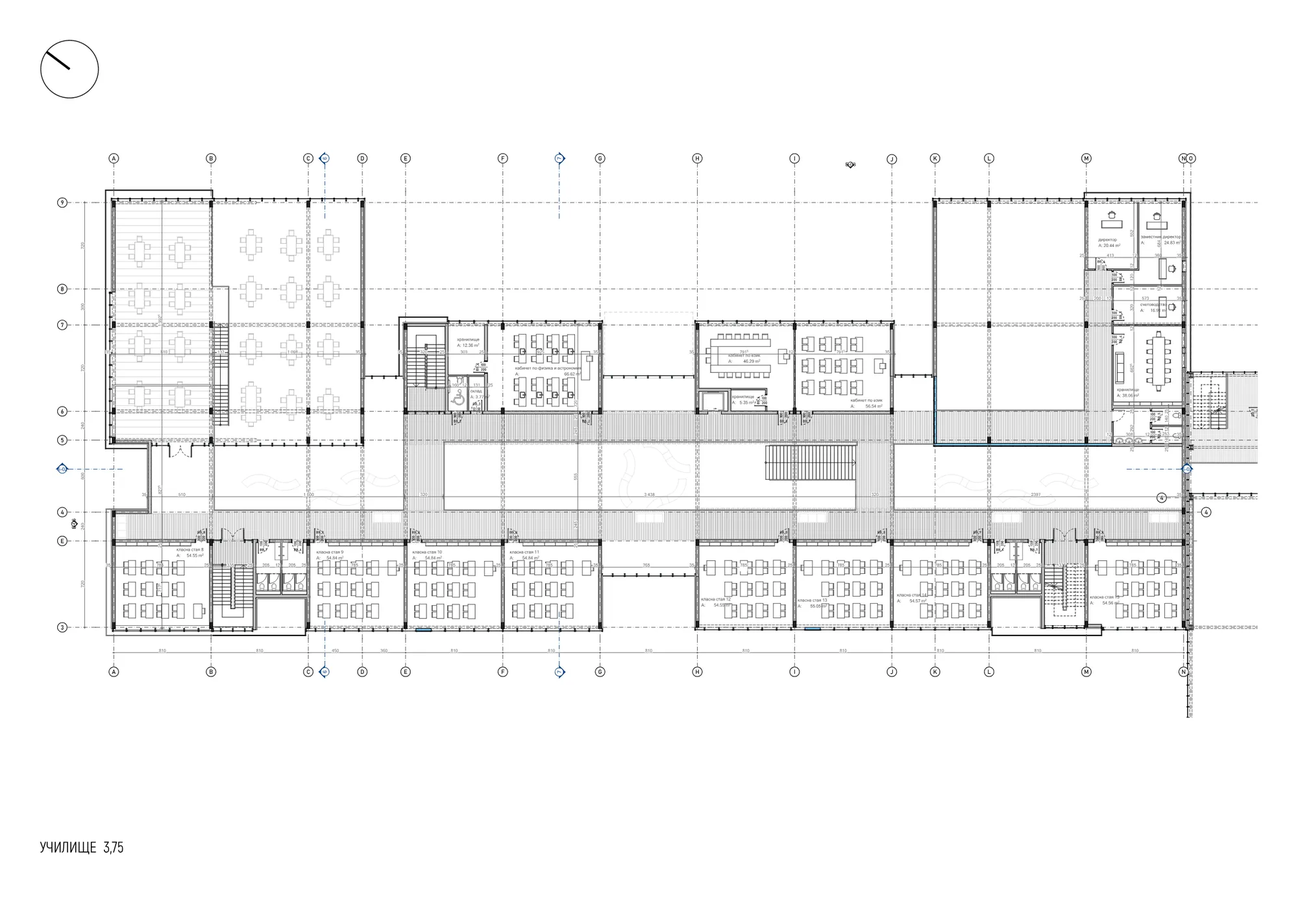
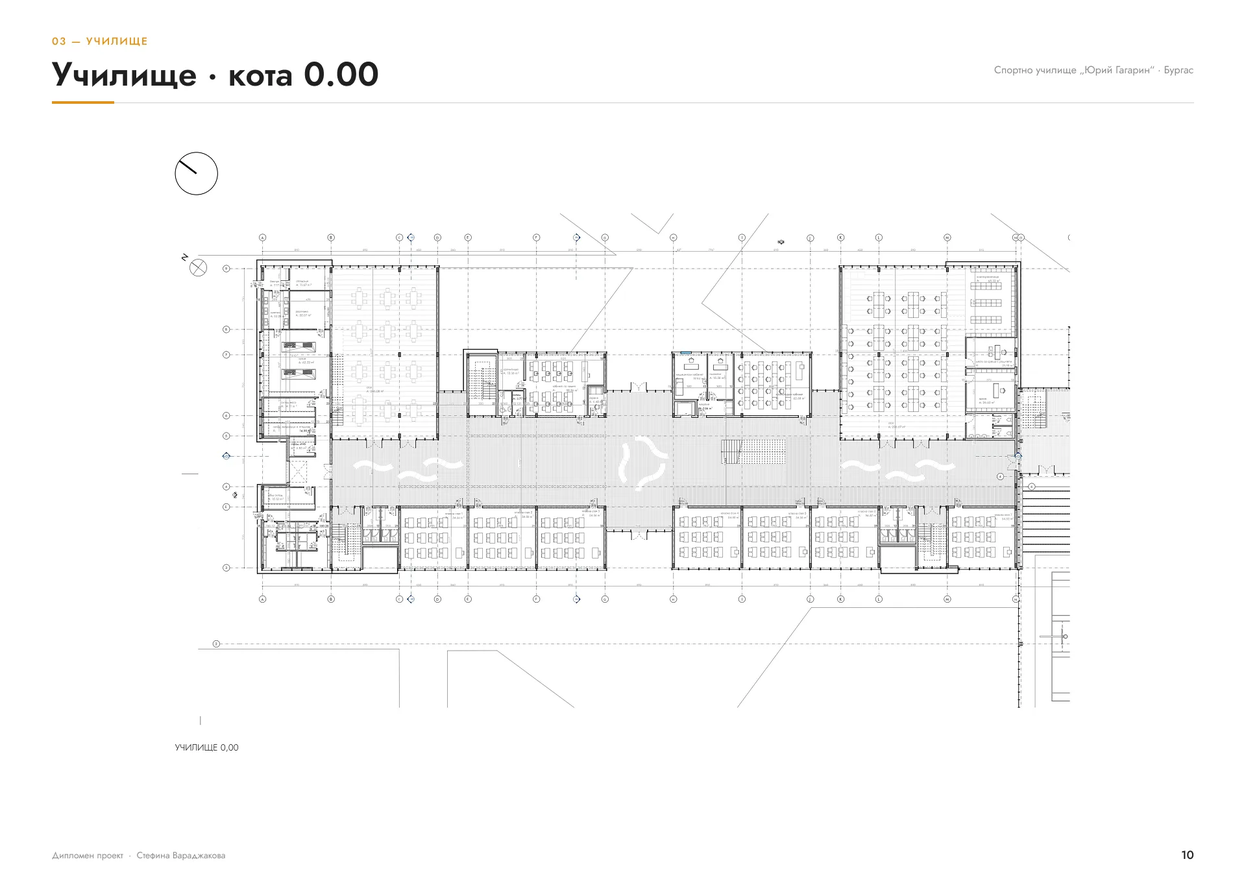
Update diploma slides, About skills and site content
- Replace the Sports School Burgas deck with the 26 redesigned slides
  and update their EN/BG descriptions
- Add the sports school renders gallery and drop the old cover
- Group About skills into Architecture and Digital & Visual Design,
  restore the square portrait in the intro row
- Add the LinkedIn link, copy-email labels and a footer credit
- Refresh Journal photography and lead text, show all posts as rows
- Restyle the PDF buttons (icon after label, "Coming soon" on hover)
- Add the "this website" project images and Krasna Polyana slide update

diff --git a/src/data/projects.ts b/src/data/projects.ts
@@ -37,6 +37,7 @@ interface ProjectText {
   outcome?: string; // only publish outcomes you can support with facts
   credits?: string;
   coverAlt?: string;
+  externalLink?: { label: string; href: string }; // a site path like '/work' gets the /bg prefix on the Bulgarian site
   deck?: Slide[]; // shown as a presentation in place of the hero image
   gallery: Visual[];
 }
@@ -50,7 +51,6 @@ export interface Project extends ProjectText {
   sample: boolean; // true shows the "Sample content" badge
   type: 'Professional' | 'Academic' | 'Independent';
   year?: string;
-  externalLink?: { label: string; href: string };
   cover?: string;
   deckRatio?: string; // presentation proportions; 16 / 9 when left out
   hero: { kind: string; ratio: string };
@@ -155,31 +155,54 @@ const wasteSlides: [string, string][] = [
 // Diploma sheets in order: [English description, Bulgarian description].
 const sportsSheet = (i: number) => `/images/work/sports-school-burgas/sheet-${String(i + 1).padStart(2, '0')}.webp`;
 const sportsSheets: [string, string][] = [
-  ['Title sheet: Sports School "Yuri Gagarin", Burgas, with an aerial visualisation of the complex.', 'Заглавен лист: Спортно училище „Юрий Гагарин“, Бургас, с визуализация на комплекса.'],
-  ['Project brief: why Burgas needs a new sports school.', 'Задание: защо Бургас има нужда от ново спортно училище.'],
-  ['Location: a map of Burgas and why this site was chosen.', 'Локация: карта на Бургас и защо е избрано това място.'],
-  ['The site from above, with transport connections and nearby stops.', 'Мястото отгоре, с транспортните връзки и близките спирки.'],
-  ['Surroundings: photos of the existing stadium, halls and buildings around the site.', 'Околна среда: снимки на стадиона, залите и сградите около мястото.'],
+  ['Cover: Sports School "Yuri Gagarin", Burgas, with a visualisation of the school.', 'Корица: Спортно училище „Юрий Гагарин“, Бургас, с визуализация на училището.'],
+  ['Project details: author, department, brief and supervisor, with an aerial view of the complex.', 'Проект: изготвил, катедра, задание и ръководител, с изглед отгоре на комплекса.'],
+  ['Introduction: why Burgas needs a new sports school.', 'Въведение: защо Бургас има нужда от ново спортно училище.'],
+  ['Location: a map of Burgas and four reasons for this site - sports history, water nearby, no other sports base, good transport.', 'Локация: карта на Бургас и четири причини за мястото - спортна история, вода наблизо, липса на друга спортна база, добър транспорт.'],
+  ['Surroundings: an axonometric of the site with photos of the existing stadium, halls and buildings.', 'Околна среда: аксонометрия на мястото със снимки на стадиона, залите и сградите наоколо.'],
   ['Proposal in two phases: new streets and training grounds, then restored halls and stadium.', 'Предложение в две фази: нови улици и игрища, после възстановени зали и стадион.'],
   ['Two systems: buildings follow the street grid, fields and green spaces run north-south.', 'Две системи: сградите следват уличната мрежа, игрищата и зелените площи са север-юг.'],
   ['Form-making of the school: modules of classrooms, dining hall and library, joined by shared space and links.', 'Формообразуване на училището: модули с учебни помещения, стол и библиотека, свързани с общо пространство.'],
+  ['Section divider: the school.', 'Раздел: училище.'],
   ['School floor plan, ground level.', 'Разпределение на училището, ниво 0,00.'],
   ['School floor plan, level +3.75.', 'Разпределение на училището, ниво +3,75.'],
   ['School floor plan, level +7.50.', 'Разпределение на училището, ниво +7,50.'],
   ['Section 1-1 through the school.', 'Разрез 1-1 през училището.'],
   ['Section 2-2 with interior visualisations of the shared spaces.', 'Разрез 2-2 с визуализации на общите пространства.'],
   ['Section 3-3 with a visualisation of the dining hall.', 'Разрез 3-3 с визуализация на стола.'],
-  ['Sports in the school programme.', 'Спортовете в програмата на училището.'],
+  ['Section divider: the sports hall.', 'Раздел: спортна зала.'],
+  ['Sports in the school programme and where each one is trained.', 'Спортовете в програмата на училището и къде се тренира всеки.'],
   ['Axonometric of the indoor halls and outdoor grounds for each sport.', 'Аксонометрия на залите и откритите игрища за всеки спорт.'],
-  ['Form-making of the sports building: large and small hall modules.', 'Формообразуване на спортната сграда: модули с големи и малки зали.'],
+  ['Form-making of the sports building: large and small hall modules raised above the plan.', 'Формообразуване на спортната сграда: модули с големи и малки зали, вдигнати над плана.'],
   ['Sports hall plans, levels 0.00 and -4.50.', 'Разпределения на залите, нива 0,00 и -4,50.'],
   ['Sports hall plans, levels 3.90 and 7.70.', 'Разпределения на залите, нива 3,90 и 7,70.'],
   ['Section through the sports hall with visualisations of the halls.', 'Разрез през салона с визуализации на залите.'],
   ['South and north facades.', 'Фасади юг и север.'],
   ['Visualisation of the school entrance.', 'Визуализация на входа на училището.'],
   ['Visualisation of the sports hall entrance.', 'Визуализация на входа на спортната зала.'],
-  ['Aerial view and visualisations of the whole complex.', 'Изглед отгоре и визуализации на целия комплекс.'],
+  ['Visualisation of the school building from the park.', 'Визуализация на сградата на училището от парка.'],
 ];
+
+// Diploma renders for the gallery under the text: [file, width, ratio, English alt, Bulgarian alt].
+const sportsRenders: [string, Visual['width'], string, string, string][] = [
+  ['render-01', 'full', '1672/941', 'Aerial view of the whole complex: the school, the sports hall with green roofs, training grounds and the restored stadium.', 'Изглед отгоре на целия комплекс: училището, спортната зала със зелени покриви, игрищата и възстановеният стадион.'],
+  ['render-02', 'half', '1690/931', 'The school building with its green and white facade, with students walking along a path through the park.', 'Сградата на училището със зелено-бяла фасада и ученици, които вървят по алея през парка.'],
+  ['render-03', 'half', '1688/951', 'Outdoor courts in front of the sports hall with its timber-slatted facade.', 'Открити игрища пред спортната зала с фасада от дървени ламели.'],
+  ['render-04', 'full', '1672/941', 'Street view of the complex: the white school volumes with the sports hall behind them.', 'Изглед от улицата към комплекса: белите обеми на училището със спортната зала зад тях.'],
+  ['render-05', 'half', '1672/941', 'A glazed passage between the buildings, with skylights set into the ground.', 'Остъклен проход между сградите, с капандури в настилката.'],
+  ['render-06', 'half', '1672/941', 'The shared hall of the school: double height, a wide stair with seating and skylights above.', 'Общото пространство на училището: двойна височина, широко стълбище за сядане и капандури отгоре.'],
+  ['render-07', 'half', '1628/966', 'Basketball hall with a timber floor, tiered seating and students playing.', 'Баскетболна зала с дървен под, трибуни и ученици, които играят.'],
+  ['render-08', 'half', '1629/1033', 'The dining hall with a timber ceiling, a stair up to the gallery and large windows to the garden.', 'Столът с дървен таван, стълба към галерията и големи прозорци към градината.'],
+  ['render-09', 'full', '1641/1300', 'Site plan of the school, the sports hall and the stadium.', 'Ситуация на училището, спортната зала и стадиона.'],
+];
+const sportsGallery = (lang: 0 | 1): Visual[] =>
+  sportsRenders.map(([file, width, ratio, en, bg]) => ({
+    kind: file === 'render-09' ? 'Site plan' : 'Render',
+    width,
+    ratio,
+    src: `/images/work/sports-school-burgas/${file}.webp`,
+    alt: lang === 0 ? en : bg,
+  }));
 
 // Interior presentation slides in order: [English description, Bulgarian description].
 const interiorSlide = (i: number) => `/images/work/interior-rental-apartments/slide-${String(i + 1).padStart(2, '0')}.webp`;
@@ -332,6 +355,38 @@ const allProjects: Project[] = [
     },
   },
   {
+    slug: 'this-website',
+    sheet: 'D-05',
+    title: 'This Website',
+    category: 'digital',
+    disciplines: ['Web Design', 'UI/UX', 'Vibe Coding'],
+    summary: 'Yes, the one you are browsing right now. I designed it, so every click here is technically a user test.',
+    featured: true,
+    sample: false,
+    type: 'Independent',
+    year: '2026',
+    role: 'Designer, client and toughest critic',
+    overview: 'A portfolio that is also a portfolio piece. **You are inside the project right now** - feel free to look around. You can\'t get lost. Probably.',
+    approach: 'One site for two worlds - architecture and digital design - so the brief was simple: different disciplines, one design mindset.\n\nIt speaks **English and Bulgarian**, has a light and a dark mode, filters work by discipline, flips through presentations like slides and keeps a Journal for everything outside the portfolio.\n\nI made the design decisions and Claude wrote the code - and learned along the way that this designer only uses short dashes.',
+    outcome: 'If you are reading this, it works.',
+    externalLink: { label: 'Open the live project (spoiler: you are already here)', href: '/work' },
+    cover: '/images/work/this-website/cover.webp',
+    coverAlt: 'This portfolio\'s Work page in a browser window on a blue gradient, with a "You are here" tag above it',
+    hero: { kind: 'Website', ratio: '16/10' },
+    gallery: [],
+    bg: {
+      title: 'Този сайт',
+      disciplines: ['Уеб дизайн', 'UI/UX', 'Vibe Coding'],
+      summary: 'Да, точно този, който разглеждате в момента. Аз съм го проектирала, така че всеки клик тук технически е тест с потребител.',
+      role: 'Дизайнер, клиент и най-строгият критик',
+      overview: 'Портфолио, което е и проект в портфолиото. **В момента сте вътре в проекта** - разгледайте спокойно. Няма как да се изгубите. Вероятно.',
+      approach: 'Един сайт за два свята - архитектура и дигитален дизайн - така че заданието беше просто: различни дисциплини, един начин на мислене.\n\nГовори **английски и български**, има светла и тъмна тема, филтрира проектите по дисциплина, прелиства презентации като слайдове и пази Дневник за всичко извън портфолиото.\n\nАз взех дизайн решенията, а Claude написа кода - и по пътя научи, че този дизайнер използва само къси тирета.',
+      outcome: 'Ако четете това, значи работи.',
+      externalLink: { label: 'Отвори проекта на живо (спойлер: вече сте тук)', href: '/work' },
+      coverAlt: 'Страницата с проекти на това портфолио в прозорец на браузър върху син градиент, с надпис „You are here“ над него',
+    },
+  },
+  {
     slug: 'sports-school-burgas',
     sheet: 'A-01',
     title: 'Sports School "Yuri Gagarin", Burgas',
@@ -346,12 +401,12 @@ const allProjects: Project[] = [
     overview: 'The sports school in Burgas badly needs a new base - a building for the students, as well as sports facilities for indoor and outdoor training. The project is planned under the "Integrated Territorial Investment Concepts" procedure of the "Regional Development 2021-2027" programme, with the involvement of local authorities, civil society and many sports clubs.',
     challenge: 'The site has been associated with sport since 1954, when the Chernomorets stadium was built, together with training grounds, halls and a rehabilitation centre. It is close to the sea, Lake Vaya and the city\'s rowing base, near the centre, and well connected - two stops served by all the main transport lines are next to it. There are no other sports facilities in the area.',
     approach: 'The proposal works in two phases: first, a new street network, varied open spaces with training grounds and parking; then, restoring the old halls and bringing the stadium back into use, creating **one large area for sport and leisure in Burgas**.\n\nTwo systems organise the plan: the buildings follow the street grid, while the fields and green spaces run north-south. The school is composed of **modules** - classrooms, dining hall and library - joined by a shared space, corridors and a roof link. The sports building follows the same logic, with large halls for basketball, volleyball and handball and for wrestling and gymnastics, and smaller halls for fitness, boxing and kickboxing.\n\nThe programme covers volleyball, basketball, football, wrestling, kickboxing, boxing, gymnastics, athletics and swimming.',
-    cover: '/images/work/sports-school-burgas/cover.webp',
-    coverAlt: 'Visualisation of the entrance to the sports school in Burgas, with students walking towards a light, glazed facade',
+    cover: '/images/work/sports-school-burgas/render-02.webp',
+    coverAlt: 'The sports school in Burgas: the school building with its green and white facade, with students walking along a path through the park',
     deckRatio: '1191 / 842',
     deck: sportsSheets.map(([en], i) => ({ src: sportsSheet(i), alt: en })),
     hero: { kind: 'Render', ratio: '16/9' },
-    gallery: [],
+    gallery: sportsGallery(0),
     bg: {
       title: 'Спортно училище „Юрий Гагарин“, Бургас',
       disciplines: ['Архитектура', 'Обществени сгради'],
@@ -361,8 +416,9 @@ const allProjects: Project[] = [
       overview: 'Спортното училище в Бургас има голяма нужда от нова база - сграда за учениците, но и спортни съоръжения за тренировки на открито и закрито. Проектът е предвиден по процедура „Концепции за интегрирани териториални инвестиции“ на ОП „Развитие на регионите 2021-2027“, с участието на местната власт, гражданското общество и много спортни клубове.',
       challenge: 'Районът се асоциира със спорт от 1954 г., когато е построен стадион „Черноморец“, а около него - тренировъчни игрища, зали и рехабилитационен център. Мястото е близо до морето, езерото Вая и гребната база на града, до центъра, и е лесно достъпно - в непосредствена близост има две спирки на всички главни транспортни линии. В района няма други спортни съоръжения.',
       approach: 'Предложението е в две фази: първо нова улична мрежа, разнообразни открити площи с тренировъчни игрища и паркоместа; след това възстановяване на старите зали и връщане на стадиона в експлоатация, за да се създаде **една голяма зона за спорт и развлечение в Бургас**.\n\nДве системи подреждат плана: сградите следват уличната мрежа, а игрищата и зелените пространства са в посока север-юг. Училището е съставено от **модули** - учебни помещения, стол и библиотека - свързани с общо пространство, коридори и покривна връзка. Спортната сграда следва същата логика, с големи зали за баскетбол, волейбол и хандбал и за борба и гимнастика, и по-малки зали за физическа подготовка, бокс и кикбокс.\n\nПрограмата включва волейбол, баскетбол, футбол, борба, кикбокс, бокс, гимнастика, лека атлетика и плуване.',
-      coverAlt: 'Визуализация на входа на спортното училище в Бургас, с ученици, които вървят към светла остъклена фасада',
+      coverAlt: 'Спортното училище в Бургас: сградата на училището със зелено-бяла фасада и ученици, които вървят по алея през парка',
       deck: sportsSheets.map(([, bg], i) => ({ src: sportsSheet(i), alt: bg })),
+      gallery: sportsGallery(1),
     },
   },
   {

diff --git a/src/styles/global.css b/src/styles/global.css
@@ -294,13 +294,13 @@ article[class^='t-'] .page-title { font-size: clamp(2.25rem, 4.5vw, 3.75rem); }
 .filter-status { margin-block: 0.6rem clamp(1rem, 2vw, 1.5rem); }
 
 /* PDF and contact links */
-.pdfs { display: grid; grid-template-columns: repeat(auto-fit, minmax(min(100%, 17rem), 1fr)); gap: 0.5rem; }
-.pdf-btn { display: flex; align-items: center; gap: 0.6rem; height: 100%; min-height: 3.25rem; padding: 0.5rem 1.25rem; border-radius: var(--pill); background: var(--spot-fill); color: var(--on-spot); font-size: 0.9375rem; font-weight: 500; line-height: 1.25; text-decoration: none; transition: background 0.25s, color 0.25s; }
+/* Compact solid buttons: label, then the download icon on the right */
+.pdfs { display: flex; flex-wrap: wrap; gap: 0.5rem; }
+.pdf-btn { display: inline-flex; align-items: center; gap: 0.5rem; min-height: 2.75rem; padding: 0.45rem 1rem 0.45rem 1.15rem; border-radius: var(--pill); background: var(--spot-fill); color: var(--on-spot); font-size: 0.875rem; font-weight: 600; line-height: 1.2; text-decoration: none; transition: background 0.25s, color 0.25s; }
 a.pdf-btn:hover { background: var(--ink); color: var(--bg); }
-.pdf-btn .icon { width: 1.25rem; height: 1.25rem; }
-.pdf-btn.is-soon { background: transparent; border: 1px solid var(--line); color: var(--muted); font-weight: 400; }
+.pdf-btn .icon { width: 1.1rem; height: 1.1rem; flex: none; }
+.pdf-btn.is-soon { cursor: default; }
 .pdf-btn > span { min-width: 0; }
-.pdf-btn > .pdf-soon { margin-left: auto; flex: none; white-space: nowrap; font-family: var(--mono); font-size: 0.6875rem; }
 .contact-links { display: flex; flex-wrap: wrap; align-items: center; gap: 0 1.5rem; }
 .contact-links li { min-width: 0; max-width: 100%; }
 .contact-links .link { gap: 0.45rem; max-width: 100%; overflow-wrap: anywhere; }
@@ -418,6 +418,8 @@ h1.about-name { font-size: clamp(2.5rem, 6vw, 4.75rem); line-height: 1; letter-s
 .interests .icon { color: var(--accent); }
 .stack { display: grid; gap: 1.75rem; }
 .tags { display: flex; flex-wrap: wrap; gap: 0.4rem; }
+.skill-groups { display: grid; gap: 1.25rem; }
+.skill-group-title { margin-bottom: 0.55rem; font-family: var(--mono, monospace); font-size: 0.8125rem; font-weight: 400; color: var(--accent); }
 .tags li { border: 1px solid var(--line); padding: 0.25rem 0.65rem; font-size: 0.9375rem; }
 
 /* Blog feed */
@@ -511,11 +513,28 @@ h1.about-name { font-size: clamp(2.5rem, 6vw, 4.75rem); line-height: 1; letter-s
 .footer-cta { color: #ffffff; font-weight: 700; white-space: nowrap; text-decoration: underline; text-decoration-thickness: 0.08em; text-underline-offset: 0.14em; transition: text-underline-offset 0.2s var(--ease); }
 .footer-invite a:hover .footer-cta { color: #ffffff; text-underline-offset: 0.24em; }
 .footer-invite a:hover { color: var(--accent); }
-.footer-grid { display: grid; gap: 1.5rem; margin-top: clamp(1.5rem, 3vw, 2.5rem); }
-@media (min-width: 760px) { .footer-grid { grid-template-columns: repeat(3, 1fr); column-gap: var(--gap); } }
-.footer-grid h2 { margin-bottom: 0.6rem; }
-.site-footer .link::after { content: none; }
-.footer-bottom { margin-top: 1.5rem; }
+/* After a click, the email and a copy button take the place of "Let's connect." */
+.footer-cta { display: inline-block; }
+.footer-cta.is-email { font-size: 0.62em; white-space: normal; overflow-wrap: anywhere; }
+.invite-copy {
+  display: inline-flex; align-items: center; margin-left: 0.6rem; vertical-align: middle;
+  font: 600 0.9375rem/1 var(--sans, inherit); letter-spacing: 0; color: #1d1d1f;
+  background: #ffffff; border: 0; border-radius: 999px; padding: 0.6rem 1rem; cursor: pointer;
+}
+.invite-copy[hidden] { display: none; }
+@media (max-width: 599px) {
+  .footer-cta.is-email { display: block; margin-top: 0.35rem; }
+  .invite-copy { margin: 0.9rem 0 0; min-height: 44px; padding-inline: 1.2rem; }
+}
+.invite-copy:hover { background: #eef4ff; }
+.sr-only { position: absolute; width: 1px; height: 1px; overflow: hidden; clip: rect(0 0 0 0); white-space: nowrap; }
+/* One line of links under the invitation, then the small print */
+.footer-links { display: flex; flex-wrap: wrap; align-items: center; gap: 0.75rem 1.75rem; margin-top: clamp(1.5rem, 3vw, 2.25rem); font-size: 1.0625rem; }
+.footer-links a, .footer-place { display: inline-flex; align-items: center; gap: 0.45rem; min-height: 44px; }
+.footer-links .icon { color: #ffffff; }
+.footer-bottom { display: flex; flex-wrap: wrap; justify-content: space-between; gap: 0.5rem 1.5rem; margin-top: clamp(1.5rem, 3vw, 2.5rem); padding-top: 1rem; border-top: 1px solid var(--line); }
+.footer-bottom a { text-decoration: underline; text-decoration-color: transparent; text-underline-offset: 0.2em; }
+.footer-bottom a:hover { text-decoration-color: currentColor; }
 
 /* Shape: soft corners, pills and a frosted header */
 .button, .cta, .badge, .prefs-btn, .filters button, .tags li { border-radius: var(--pill); }

diff --git a/src/data/journal.ts b/src/data/journal.ts
@@ -213,11 +213,14 @@ const allArticles: Article[] = [
       { src: `${photos}/01.webp`, alt: 'White pylon and fan of cables of a bridge against a deep blue sky', ratio: '1200/1600' },
       { src: `${photos}/02.webp`, alt: 'Harbour cranes and towers seen through a round opening in rusty yellow steel', ratio: '1600/1110' },
       { src: `${photos}/03.webp`, alt: 'Stone and glass facade rising into a pale blue sky, seen from below', ratio: '1600/1174' },
-      { src: `${photos}/04.webp`, alt: 'Red wall with a barred window above and a small barred cellar window below', ratio: '929/1600' },
       { src: `${photos}/05.webp`, alt: 'Black and white metro station with a curving ribbon of light along the ceiling', ratio: '901/1600' },
       { src: `${photos}/06.webp`, alt: 'Glass facade reflecting clouds above a dark stone building, framed by bare branches', ratio: '1066/1600' },
       { src: `${photos}/07.webp`, alt: 'Dark steel and glass canopy with suspended lights, seen from underneath', ratio: '1600/1066' },
       { src: `${photos}/08.webp`, alt: 'Old street lamp pole tangled with wires against a bright blue sky', ratio: '1600/1066' },
+      { src: `${photos}/people-01.webp`, alt: 'Black and white photograph of people on a long metro escalator', ratio: '594/425' },
+      { src: `${photos}/people-02.webp`, alt: 'Black and white photograph of travellers with backpacks at a train station under a steel roof', ratio: '594/425' },
+      { src: `${photos}/people-03.webp`, alt: 'Black and white photograph of two men playing a board game on a street corner', ratio: '594/425' },
+      { src: `${photos}/people-04.webp`, alt: "A man's face reflected in a train window above the sea", ratio: '595/418' },
     ],
     bg: {
       title: 'От пространство към композиция',
@@ -245,11 +248,14 @@ const allArticles: Article[] = [
         { src: `${photos}/01.webp`, alt: 'Бял пилон и ветрило от въжета на мост срещу наситено синьо небе', ratio: '1200/1600' },
         { src: `${photos}/02.webp`, alt: 'Пристанищни кранове и кули, видени през кръгъл отвор в ръждясала жълта стомана', ratio: '1600/1110' },
         { src: `${photos}/03.webp`, alt: 'Фасада от камък и стъкло, която се издига към бледосиньо небе, видяна отдолу', ratio: '1600/1174' },
-        { src: `${photos}/04.webp`, alt: 'Червена стена с прозорец с решетка отгоре и малък прозорец на мазе отдолу', ratio: '929/1600' },
         { src: `${photos}/05.webp`, alt: 'Черно-бяла метростанция с извиваща се светлинна линия по тавана', ratio: '901/1600' },
         { src: `${photos}/06.webp`, alt: 'Стъклена фасада, отразяваща облаците над тъмна каменна сграда, между голи клони', ratio: '1066/1600' },
         { src: `${photos}/07.webp`, alt: 'Тъмна козирка от стомана и стъкло с висящи лампи, видяна отдолу', ratio: '1600/1066' },
         { src: `${photos}/08.webp`, alt: 'Стар стълб с улична лампа, оплетен в жици, срещу ярко синьо небе', ratio: '1600/1066' },
+        { src: `${photos}/people-01.webp`, alt: 'Черно-бяла снимка на хора по дълъг ескалатор в метрото', ratio: '594/425' },
+        { src: `${photos}/people-02.webp`, alt: 'Черно-бяла снимка на пътници с раници на гара под стоманен покрив', ratio: '594/425' },
+        { src: `${photos}/people-03.webp`, alt: 'Черно-бяла снимка на двама мъже, които играят настолна игра на уличен ъгъл', ratio: '594/425' },
+        { src: `${photos}/people-04.webp`, alt: 'Лице на мъж, отразено в прозорец на влак над морето', ratio: '595/418' },
       ],
     },
   },

diff --git a/src/i18n.ts b/src/i18n.ts
@@ -52,6 +52,9 @@ const en = {
   about: 'About',
   journal: 'Journal',
   connect: "Let's connect",
+  copyEmail: 'Copy email',
+  copied: 'Copied',
+  footerCredit: 'Designed by me. Built with Claude.',
   light: 'Light',
   dark: 'Dark',
   language: 'Language',
@@ -72,7 +75,7 @@ const en = {
   viewAll: 'View all work',
   moreAbout: 'More about me',
   readJournal: 'Read the Journal',
-  journalLead: 'Stories and experiences from outside the portfolio. Other versions of me.',
+  journalLead: 'Stories and experiences from outside the portfolio. Design in different forms.',
   keepReading: 'Keep reading',
   journalEmpty: 'Journal is taking shape. The first notes will appear here soon.',
   backJournal: 'Back to Journal',
@@ -131,6 +134,9 @@ const bg: typeof en = {
   about: 'За мен',
   journal: 'Дневник',
   connect: 'Контакт',
+  copyEmail: 'Копирай имейла',
+  copied: 'Копирано',
+  footerCredit: 'Проектиран от мен. Изграден с Claude.',
   light: 'Светла',
   dark: 'Тъмна',
   language: 'Език',
@@ -151,7 +157,7 @@ const bg: typeof en = {
   viewAll: 'Всички проекти',
   moreAbout: 'Повече за мен',
   readJournal: 'Към Дневника',
-  journalLead: 'Истории и преживявания извън портфолиото. Други версии на мен.',
+  journalLead: 'Истории и преживявания извън портфолиото. Дизайн в различни форми.',
   keepReading: 'Прочетете още',
   journalEmpty: 'Дневникът се оформя. Първите бележки ще се появят тук скоро.',
   backJournal: 'Обратно към Дневника',

diff --git a/src/data/site.bg.ts b/src/data/site.bg.ts
@@ -200,25 +200,8 @@ export const siteBg: typeof site = {
       ],
     },
     tools: [
-      'Figma',
-      'Auto Layout',
-      'Компоненти и варианти',
-      'Прототипиране',
-      'Дизайн системи',
-      'Photoshop',
-      'Illustrator',
-      'InDesign',
-      'Spline',
-      'Google Web Designer',
-      'Claude',
-      'ChatGPT',
-      'Higgsfield',
-      'Потребителски интервюта',
-      'Рисуване',
-      'Дигитално рисуване',
-      '3D моделиране и рендиране',
-      'Управление на проекти',
-      'Работа в екип',
+      { title: 'Архитектура', items: ['Архитектурно проектиране', 'Интериорен дизайн', 'ArchiCAD', 'AutoCAD', 'Lumion', 'Photoshop', '3D моделиране и рендиране', 'InDesign', 'Рисуване', 'Композиция'] },
+      { title: 'Дигитален и визуален дизайн', items: ['Брандинг', 'Figma', 'Claude', 'Adobe Creative Cloud', 'Vibe coding', 'Higgsfield', 'Визуална комуникация', 'Визии за имейли', 'Видео', 'Проучване на потребители', 'Информационна архитектура', 'UX/UI', 'Прототипиране', 'Дизайн системи', 'Уеб дизайн', 'Потребителски интервюта', 'Photoshop', 'Illustrator', 'ChatGPT', 'Управление на проекти', 'Работа в екип'] },
     ],
     interests: [
       { icon: 'fitness', label: 'Фитнес' },

diff --git a/src/data/site.ts b/src/data/site.ts
@@ -18,7 +18,7 @@ export const site = {
     email: 'stefina.varadzhakova99@gmail.com',
     phone: '+359 87 600 6300',
     location: 'Sofia / Burgas',
-    linkedin: '',
+    linkedin: 'https://www.linkedin.com/in/stefina-varadzhakova-b97b86218/',
     instagram: '',
     invitation: "Interested in collaborating or exchanging ideas? Let's connect.",
   },
@@ -228,26 +228,10 @@ export const site = {
         },
       ],
     },
+    // Skills in two groups, so each side is easy to scan.
     tools: [
-      'Figma',
-      'Auto Layout',
-      'Components & Variants',
-      'Prototyping',
-      'Design Systems',
-      'Photoshop',
-      'Illustrator',
-      'InDesign',
-      'Spline',
-      'Google Web Designer',
-      'Claude',
-      'ChatGPT',
-      'Higgsfield',
-      'User Interviews',
-      'Drawing',
-      'Digital Drawing',
-      '3D Modelling & Rendering',
-      'Project Management',
-      'Teamwork',
+      { title: 'Architecture', items: ['Architectural Design', 'Interior Design', 'ArchiCAD', 'AutoCAD', 'Lumion', 'Photoshop', '3D Modelling & Rendering', 'InDesign', 'Drawing', 'Composition'] },
+      { title: 'Digital & Visual Design', items: ['Branding', 'Figma', 'Claude', 'Adobe Creative Cloud', 'Vibe Coding', 'Higgsfield', 'Visual Communication', 'Email Visuals', 'Video', 'User Research', 'Information Architecture', 'UX/UI', 'Prototyping', 'Design Systems', 'Web Design', 'User Interviews', 'Photoshop', 'Illustrator', 'ChatGPT', 'Project Management', 'Teamwork'] },
     ],
     // Icons available: fitness, tennis, running, games, drawing, workshops, coffee, travel, sea
     interests: [
